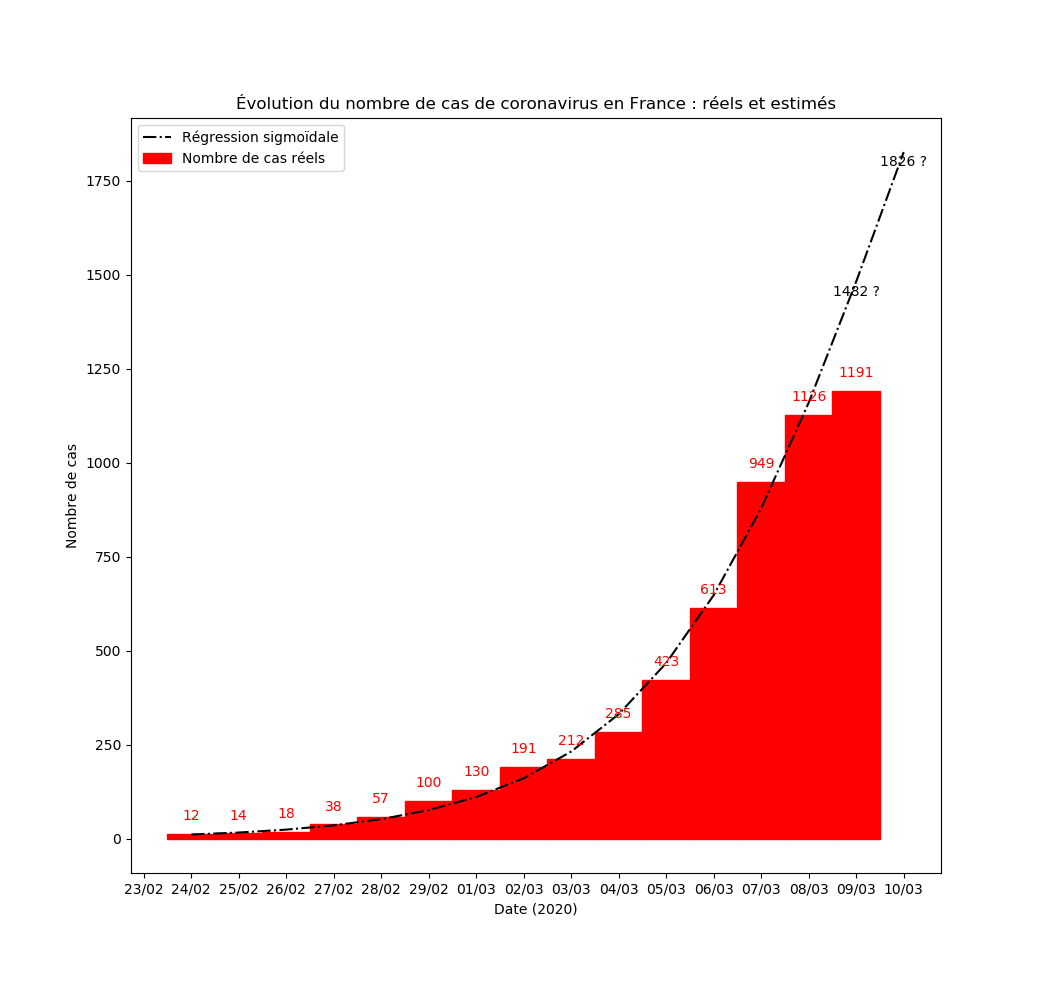
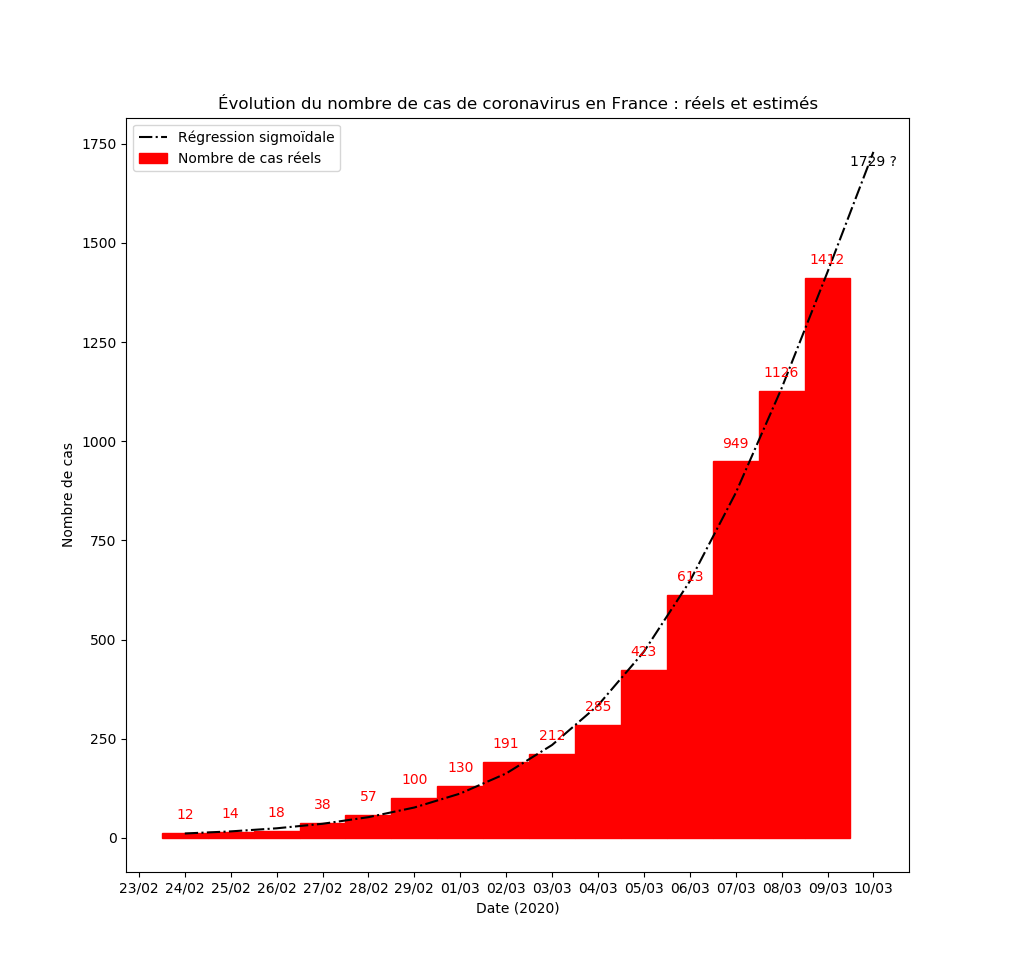
CoViD-19

diff --git a/_posts/2020-03-07-covid19.md b/_posts/2020-03-07-covid19.md
@@ -25,8 +25,6 @@ La [seconde](#régression-sigmoïdale) consiste à modéliser l'évolution du no
 
 On fournit [ici](#code-python) et [là](#variante-python) les deux codes Python permettant d'obtenir les graphiques et les résultats envisagés pour ces deux simulations.
 
-Enfin, je consacre un [dernier paragraphe](#communications-officielles) aux nombres de cas communiqués par les autorités françaises à partir du 8 mars... dont on peut singulièrement douter de la bonne foi.
-
 _**Ces simulations sont évidemment à prendre avec beaucoup de prudence et de circonspection !**_
 
 # Régression exponentielle
@@ -162,7 +160,7 @@ _**Attention ! Le SI est de taille en l'occurrence...**_
 
 ```python
 # Nombre de nouveaux cas pas jours - à partir du 25 février 2020
-nouveaux = [0,2,4,20,19,43,30,61,21,73,138,190,336,177,65]
+nouveaux = [0,2,4,20,19,43,30,61,21,73,138,190,336,177,286]
 n = len(nouveaux)
 # Période utilisée pour effectuer la régression linéaire
 # deb = n-9 pour l'effectuer sur les 9 derniers jours
@@ -171,7 +169,7 @@ deb = 0
 # fin = 13 pour s'arrêter au 7 mars (date à partir de laquelle les malades
 # avec de faibles symptomes ne sont plus testés)
 # fin = n pour tenir  de compte de tous les cas jusqu'aux derniers jours
-fin = 14
+fin = n
 somcum = [12+sum(nouveaux[:(k+1)]) for k in range(n)]
 # Nombre de jours pour lesquels on anticipe le nombre de personnes infectées
 # en utilisant l'estimation sigmoïdale
@@ -268,21 +266,3 @@ print("Paramètre sigmoïde :\nN=",format(int(c),'04d'),'/[1+exp(-(',format(a,'0
       '*T+',format(b,'02f'),'))]',sep='')
 print("Taux d'évolution du nombre de cas :",np.exp(a)-1)
 ```
-
-# Communications officielles
-
-On commence à constater une grosse différence entre simulation et nombre de cas réels communiqués par les autorités.
-
-Il faut rester très prudent sur la validité de cette simulation mais ce ne serait pas la première fois que ce gouvernement ment sans vergogne...
-
-Pour cette raison, voici deux graphiques : le premier est fait en ne tenant compte, pour la simulation, que des cas communiqués jusqu'au 7 mars - date à partir de laquelle le gouvernement a décidé de ne plus tester que les cas graves.
-
-![CoViD-19 sigmoïdale, évolution du nombre de cas](/img/Cov1003s2.png)
-
-Le second ne prend en compte que les cas communiqués jusqu'au 8 mars.
-
-![CoViD-19 sigmoïdale, évolution du nombre de cas](/img/Cov1003s.png)
-
-Même le graphique obtenu en prenant tous les nouveaux cas donnés par le gouvernement jusqu'à aujourd'hui (9 mars au soir) est très bizarre et... dissonant.
-
-Une petite analyse des deux graphiques précédents : dans les deux cas, si le modèle utilisé est bon, le nombre de personnes qui seront atteintes en France à la fin de l'épidémie semble être inférieur à 10 000. La fin de l'épidémie arriverait - toujours dans le cas où ce modèle serait valable - aux environs de la fin du mois de mars.
